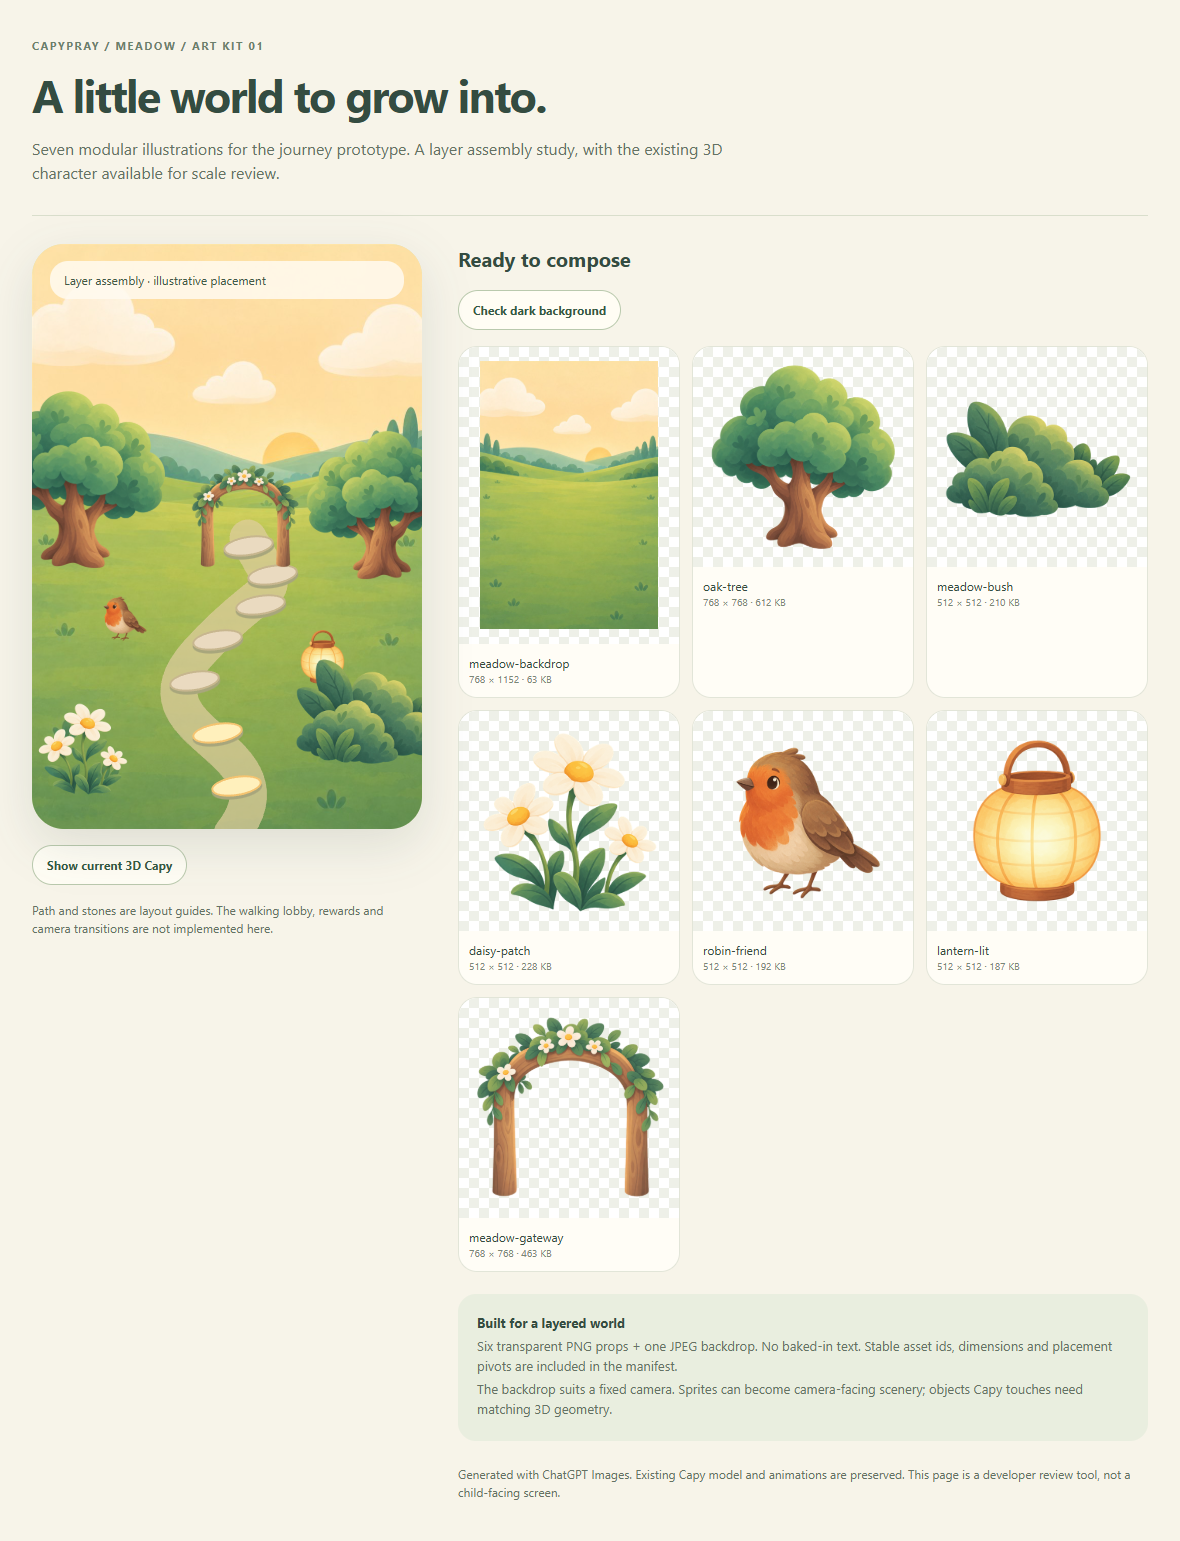
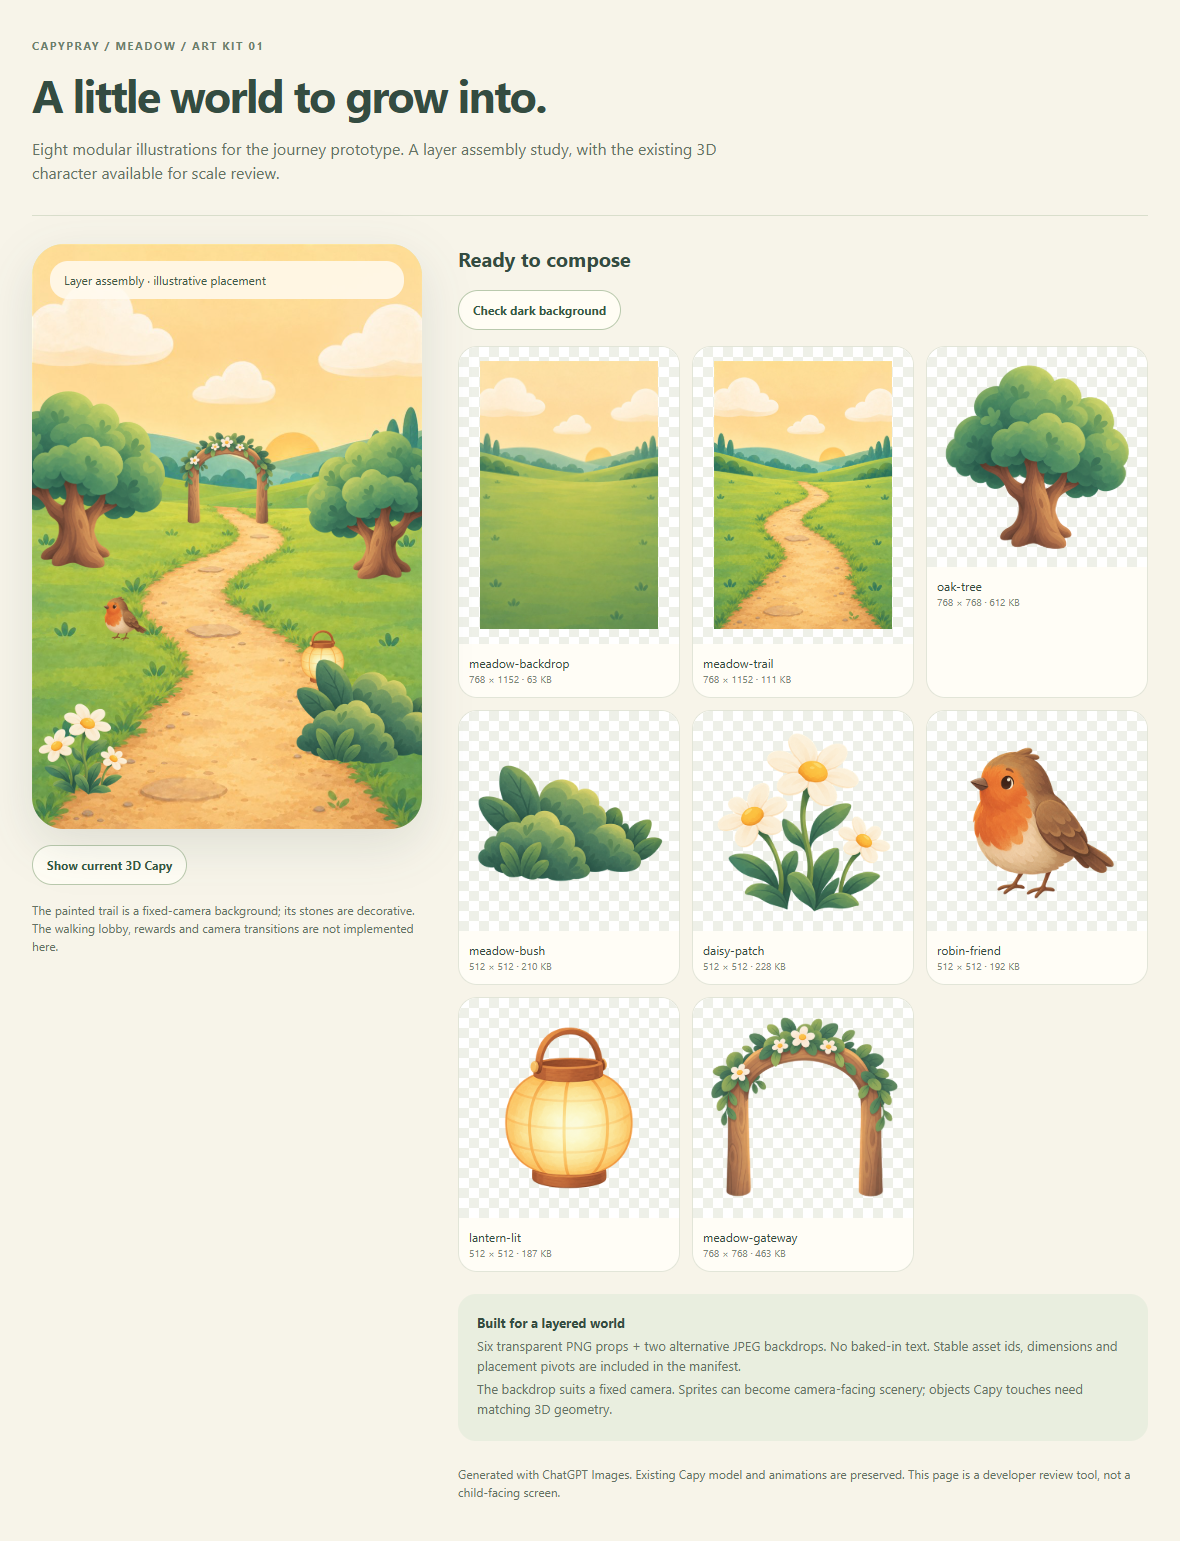
Replace flat trail guides with a painted meadow path

diff --git a/docs/art/journey-kit.html b/docs/art/journey-kit.html
@@ -5,25 +5,23 @@
 *{box-sizing:border-box}body{margin:0;background:#f7f4e9;color:#344c41;font:16px/1.5 system-ui,sans-serif}main{max-width:1180px;margin:auto;padding:32px}
 header{border-bottom:1px solid #d9decc;margin-bottom:28px;padding-bottom:22px}small{letter-spacing:.14em;text-transform:uppercase;font-size:11px;font-weight:700;color:#6b806b}h1{font-size:clamp(28px,4vw,45px);letter-spacing:-.04em;margin:5px 0}p{max-width:720px;margin:8px 0;color:#657264}h2{font-size:20px;margin:0 0 12px}.layout{display:grid;grid-template-columns:minmax(270px,390px) 1fr;gap:36px;align-items:start}
 .scene{position:relative;width:100%;aspect-ratio:2/3;border-radius:32px;overflow:hidden;background:#dce6bd;box-shadow:0 16px 48px #314c4122}
-.backdrop{width:100%;height:100%;position:absolute;inset:0}.prop{position:absolute;height:auto;pointer-events:none}.treeL{width:49%;left:-13%;top:24%}.treeR{width:41%;right:-10%;top:31%;transform:scaleX(-1)}.gate{width:29%;left:40%;top:37%}.bush{width:46%;right:-12%;bottom:5%}.flowers{width:26%;left:0;bottom:5%}.bird{width:15%;left:16%;top:59%}.lamp{width:17%;left:66%;top:65%}.trail{position:absolute;width:100%;height:100%;inset:0}.stone{position:absolute;border-radius:50%;background:#eadac0;border:2px solid #c7b68e;box-shadow:0 3px #a8a67c;width:13%;height:3.4%;transform:rotate(-9deg)}.stone.done{background:#fff0bc;border-color:#f4c370}.scene iframe{position:absolute;left:29%;top:57%;width:42%;height:32%;border:0;pointer-events:none;background:transparent}.scene-note{position:absolute;top:17px;left:18px;right:18px;padding:10px 14px;border-radius:18px;background:#fffaf0db;font-size:12px;color:#425846}
+.backdrop{width:100%;height:100%;position:absolute;inset:0}.prop{position:absolute;height:auto;pointer-events:none}.treeL{width:49%;left:-13%;top:24%}.treeR{width:41%;right:-10%;top:31%;transform:scaleX(-1)}.gate{width:26%;left:37%;top:31.5%}.bush{width:46%;right:-12%;bottom:5%}.flowers{width:26%;left:0;bottom:5%}.bird{width:15%;left:16%;top:59%}.lamp{width:17%;left:66%;top:65%}.scene iframe{position:absolute;left:29%;top:57%;width:42%;height:32%;border:0;pointer-events:none;background:transparent}.scene-note{position:absolute;top:17px;left:18px;right:18px;padding:10px 14px;border-radius:18px;background:#fffaf0db;font-size:12px;color:#425846}
 .controls{display:flex;flex-wrap:wrap;gap:8px;margin:16px 0}button{font:inherit;font-size:12px;font-weight:650;border:1px solid #b9c9ad;background:#fffdf4;color:#355843;border-radius:30px;padding:10px 14px;cursor:pointer}button:focus-visible{outline:3px solid #e7ac48;outline-offset:3px}button[aria-pressed=true]{background:#dbe8ce}button:disabled{opacity:.5}
 .grid{display:grid;grid-template-columns:repeat(3,minmax(0,1fr));gap:12px}.card{margin:0;background:#fffdf6;border:1px solid #e2e5d8;border-radius:19px;overflow:hidden;min-width:0}.swatch{aspect-ratio:1;display:grid;place-items:center;background-color:#fff;background-image:linear-gradient(45deg,#eef0e8 25%,transparent 25%),linear-gradient(-45deg,#eef0e8 25%,transparent 25%),linear-gradient(45deg,transparent 75%,#eef0e8 75%),linear-gradient(-45deg,transparent 75%,#eef0e8 75%);background-size:20px 20px;background-position:0 0,0 10px,10px -10px,-10px 0}.dark .swatch{background:#344c41}.swatch img{width:90%;height:90%;object-fit:contain}.card figcaption{padding:10px;font-size:12px;overflow-wrap:anywhere}.meta{display:block;color:#7a8776;font-size:10px}.notes{margin-top:22px;padding:19px;border-radius:18px;background:#e9eedf;font-size:13px}.notes p{margin:4px 0}.previewlabel{font-size:12px;margin-top:12px}.foot{font-size:12px;margin-top:24px}
 @media(max-width:800px){main{padding:20px}.layout{grid-template-columns:1fr}.scene{max-width:390px;margin:auto}.grid{grid-template-columns:repeat(3,minmax(0,1fr))}}
 @media(max-width:360px){.grid{grid-template-columns:repeat(2,minmax(0,1fr))}}
 </style></head><body><main>
-<header><small>CapyPray / Meadow / Art kit 01</small><h1>A little world to grow into.</h1><p>Seven modular illustrations for the journey prototype. A layer assembly study, with the existing 3D character available for scale review.</p></header>
+<header><small>CapyPray / Meadow / Art kit 01</small><h1>A little world to grow into.</h1><p>Eight modular illustrations for the journey prototype. A layer assembly study, with the existing 3D character available for scale review.</p></header>
 <div class="layout"><section><div class="scene" id="scene">
-<img class="backdrop" src="/art/meadow-backdrop.jpg" alt="Warm meadow clearing">
-<svg class="trail" viewBox="0 0 390 585" aria-hidden="true"><path d="M200 590C270 500 90 493 166 409S255 363 216 294" fill="none" stroke="#dfcd9e" stroke-width="37" opacity=".72" stroke-linecap="round"/></svg>
-<div class="stone done" style="left:46%;top:91%"></div><div class="stone done" style="left:41%;top:82%"></div><div class="stone" style="left:35%;top:73%"></div><div class="stone" style="left:41%;top:66%"></div><div class="stone" style="left:52%;top:60%"></div><div class="stone" style="left:55%;top:55%"></div><div class="stone" style="left:49%;top:50%"></div>
+<img class="backdrop" src="/art/meadow-trail.jpg" alt="Painted meadow trail tapering toward a garden arch">
 <img class="prop treeL" src="/art/oak-tree.png" alt=""><img class="prop treeR" src="/art/oak-tree.png" alt="">
 <img class="prop gate" src="/art/meadow-gateway.png" alt=""><img class="prop bird" src="/art/robin-friend.png" alt="">
 <img class="prop lamp" src="/art/lantern-lit.png" alt=""><img class="prop bush" src="/art/meadow-bush.png" alt=""><img class="prop flowers" src="/art/daisy-patch.png" alt="">
 <div class="scene-note">Layer assembly · illustrative placement</div></div>
 <div class="controls"><button id="avatar" aria-pressed="false">Show current 3D Capy</button></div>
-<p class="previewlabel">Path and stones are layout guides. The walking lobby, rewards and camera transitions are not implemented here.</p></section>
+<p class="previewlabel">The painted trail is a fixed-camera background; its stones are decorative. The walking lobby, rewards and camera transitions are not implemented here.</p></section>
 <section><h2>Ready to compose</h2><div class="controls"><button id="contrast" aria-pressed="false">Check dark background</button></div><div class="grid" id="grid"></div>
-<div class="notes"><strong>Built for a layered world</strong><p>Six transparent PNG props + one JPEG backdrop. No baked-in text. Stable asset ids, dimensions and placement pivots are included in the manifest.</p><p>The backdrop suits a fixed camera. Sprites can become camera-facing scenery; objects Capy touches need matching 3D geometry.</p></div>
+<div class="notes"><strong>Built for a layered world</strong><p>Six transparent PNG props + two alternative JPEG backdrops. No baked-in text. Stable asset ids, dimensions and placement pivots are included in the manifest.</p><p>The backdrop suits a fixed camera. Sprites can become camera-facing scenery; objects Capy touches need matching 3D geometry.</p></div>
 <p class="foot">Generated with ChatGPT Images. Existing Capy model and animations are preserved. This page is a developer review tool, not a child-facing screen.</p></section></div></main>
 <script>
 fetch('/art/manifest.json').then(r=>r.json()).then(manifest=>{

diff --git a/apps/mobile/src/ui/journeyArt.ts b/apps/mobile/src/ui/journeyArt.ts
@@ -4,6 +4,7 @@ import manifest from "../../assets/illustrations/journey/manifest.json";
 /** Prepared scenery for the journey prototype; importing this module opts into bundling it. */
 export const JOURNEY_ART = {
   "meadow-backdrop": require("../../assets/illustrations/journey/meadow-backdrop.jpg") as ImageSourcePropType,
+  "meadow-trail": require("../../assets/illustrations/journey/meadow-trail.jpg") as ImageSourcePropType,
   "oak-tree": require("../../assets/illustrations/journey/oak-tree.png") as ImageSourcePropType,
   "meadow-bush": require("../../assets/illustrations/journey/meadow-bush.png") as ImageSourcePropType,
   "daisy-patch": require("../../assets/illustrations/journey/daisy-patch.png") as ImageSourcePropType,

diff --git a/docs/journey-art-kit.md b/docs/journey-art-kit.md
@@ -2,10 +2,11 @@
 Prepared 2026-09-19 from 76c23f9, including the new Capi_02.fbx takes. This is an asset handoff and review tool; the application lobby is not replaced.
 
 ## Delivered 2D kit
-Seven original ChatGPT Images illustrations, visually matched to meadow-storybook.png:
+Eight original ChatGPT Images illustrations, visually matched to meadow-storybook.png:
 | Id | Export | Intended role |
 |---|---|---|
 | meadow-backdrop | 768 × 1152 JPEG | Fixed-camera meadow clearing behind the scene |
+| meadow-trail | 768 × 1152 JPEG | Alternative fixed-camera backdrop with a painted, tapering earth path |
 | oak-tree | 768 × 768 RGBA PNG | Side scenery, reusable with careful mirroring |
 | meadow-bush | 512 × 512 RGBA PNG | Foreground depth and soft path edges |
 | daisy-patch | 512 × 512 RGBA PNG | Gratitude encounter or decorative milestone |
@@ -13,7 +14,7 @@ Seven original ChatGPT Images illustrations, visually matched to meadow-storyboo
 | lantern-lit | 512 × 512 RGBA PNG | Distant placed reward, or interface illustration |
 | meadow-gateway | 768 × 768 RGBA PNG | Milestone landmark; open center is transparent |
 
-Production files total 2,001,472 bytes (about 2 MB). All imagery is text-free. No generated words are embedded in the scenery. Original PNGs remain in the review outputs; full prompts and the reference role are recorded in [journey-prompts.json](art/journey-prompts.json).
+Production files total 2,115,486 bytes (about 2 MB). All imagery is text-free. No generated words are embedded in the scenery. Original PNGs remain in the review outputs; full prompts and the reference role are recorded in [journey-prompts.json](art/journey-prompts.json).
 
 Assets: apps/mobile/assets/illustrations/journey/.
 Static React Native image map: apps/mobile/src/ui/journeyArt.ts.
@@ -36,7 +37,7 @@ The JPEG is not a seamless texture or skybox. These sprites provide one authored
 
 For a modelled prop, use the current normalized Capy height (1.6 scene units) as scale reference. Start with broad readable shapes, painted base color and matte materials, matching this kit. Ground-contact objects need pivots at the base; a held lantern needs a documented grip point. Keep props separate from the character rig.
 
-Suggested prototype budgets, to verify on devices: 30 fps minimum on the agreed low-end Android test device; a small set of repeated meshes and materials; no extra realtime lights for every lantern. File size is not GPU memory: decoding all seven textures needs about 12.5 MB before mipmaps/overhead. Load only the current biome and constrain transparent overdraw.
+Suggested prototype budgets, to verify on devices: 30 fps minimum on the agreed low-end Android test device; a small set of repeated meshes and materials; no extra realtime lights for every lantern. File size is not GPU memory: decoding all eight textures needs about 15.8 MB before mipmaps/overhead. The two backdrops are alternatives; load only one at a time. Load only the current biome and constrain transparent overdraw.
 
 ## Animation inventory verified in the shipping GLB
 The binary has 19 clips. The seven authored additions are:
@@ -79,7 +80,7 @@ pnpm install --frozen-lockfile
 pnpm --filter @capy/avatar-web build
 node tools/journey-art-preview.mjs
 ~~~
-Open http://127.0.0.1:8084. The optional Show current 3D Capy button loads the built embedded viewer. The path and stones in this page are illustrative layout guides. This is not an implemented game loop.
+Open http://127.0.0.1:8084. The optional Show current 3D Capy button loads the built embedded viewer. The review uses meadow-trail: a painted earth path with perspective taper, grassy edges and embedded stones. It replaces the flat SVG ribbon and repeated CSS discs. Keep meadow-backdrop for a future geometry-driven path; do not stack both backdrops. The illustrated stones are decorative, not progression nodes. This is not an implemented game loop.
 
 Browser asset check:
 ~~~sh
@@ -87,7 +88,7 @@ Browser asset check:
 node tools/journey-art-check.cjs
 ~~~
 
-Verified: all seven image exports decode at their declared dimensions; six props have true alpha and transparent corners; the gateway center is transparent; light/dark compositing and a 320 px layout; current Capy composited over the kit; walk, standing prayer and kneeling prayer previews. Twenty content tests, mobile typecheck and the avatar build passed. This isolated art checkout does not prepare voice recordings or deploy the app. Physical-device walking, depth sorting and performance remain work for the lobby implementation.
+Verified: all eight image exports decode at their declared dimensions; six props have true alpha and transparent corners; the gateway center is transparent; light/dark compositing and a 320 px layout; current Capy composited over the kit; walk, standing prayer and kneeling prayer previews. Twenty content tests, mobile typecheck and the avatar build passed. This isolated art checkout does not prepare voice recordings or deploy the app. Physical-device walking, depth sorting and performance remain work for the lobby implementation.
 
 ![Kit overview](screenshots/journey-kit-overview.png)
 ![Layer assembly with current Capy](screenshots/journey-kit-with-capy.png)
